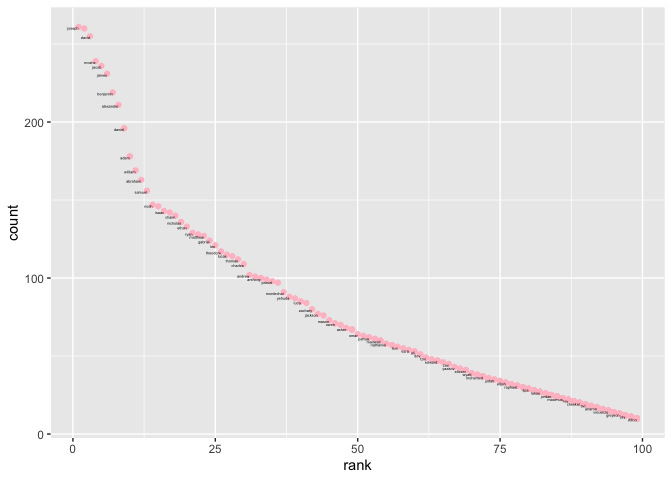
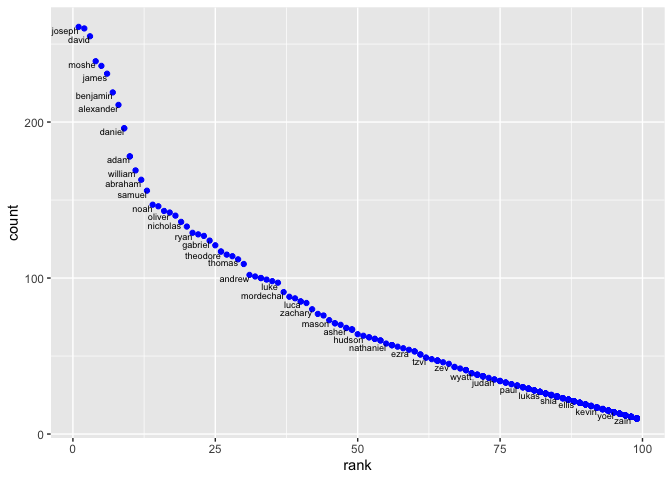
Changing the scatter plot

Changed region(s): [[0.1562, 0.3125, 0.9688, 0.9062], [0.0938, 0.125, 0.1875, 0.2812], [0.0625, 0.0312, 0.1562, 0.0938]]

diff --git a/p8105_hw2_mk4208.md b/p8105_hw2_mk4208.md
@@ -276,12 +276,12 @@ popular_baby_names %>%
          ethnicity == "white non hispanic", 
          year_of_birth == 2016) %>%
   ggplot(aes(x = rank, y = count)) +
-  geom_point(colour="pink") + 
+  geom_point(colour="blue") + 
   geom_text(aes(label=childs_first_name),
             hjust=1, 
             vjust=1, 
             check_overlap = TRUE,
-            size = 1)
+            size = 2.4)
 ```
 
 ![](p8105_hw2_mk4208_files/figure-gfm/unnamed-chunk-10-1.png)<!-- -->
